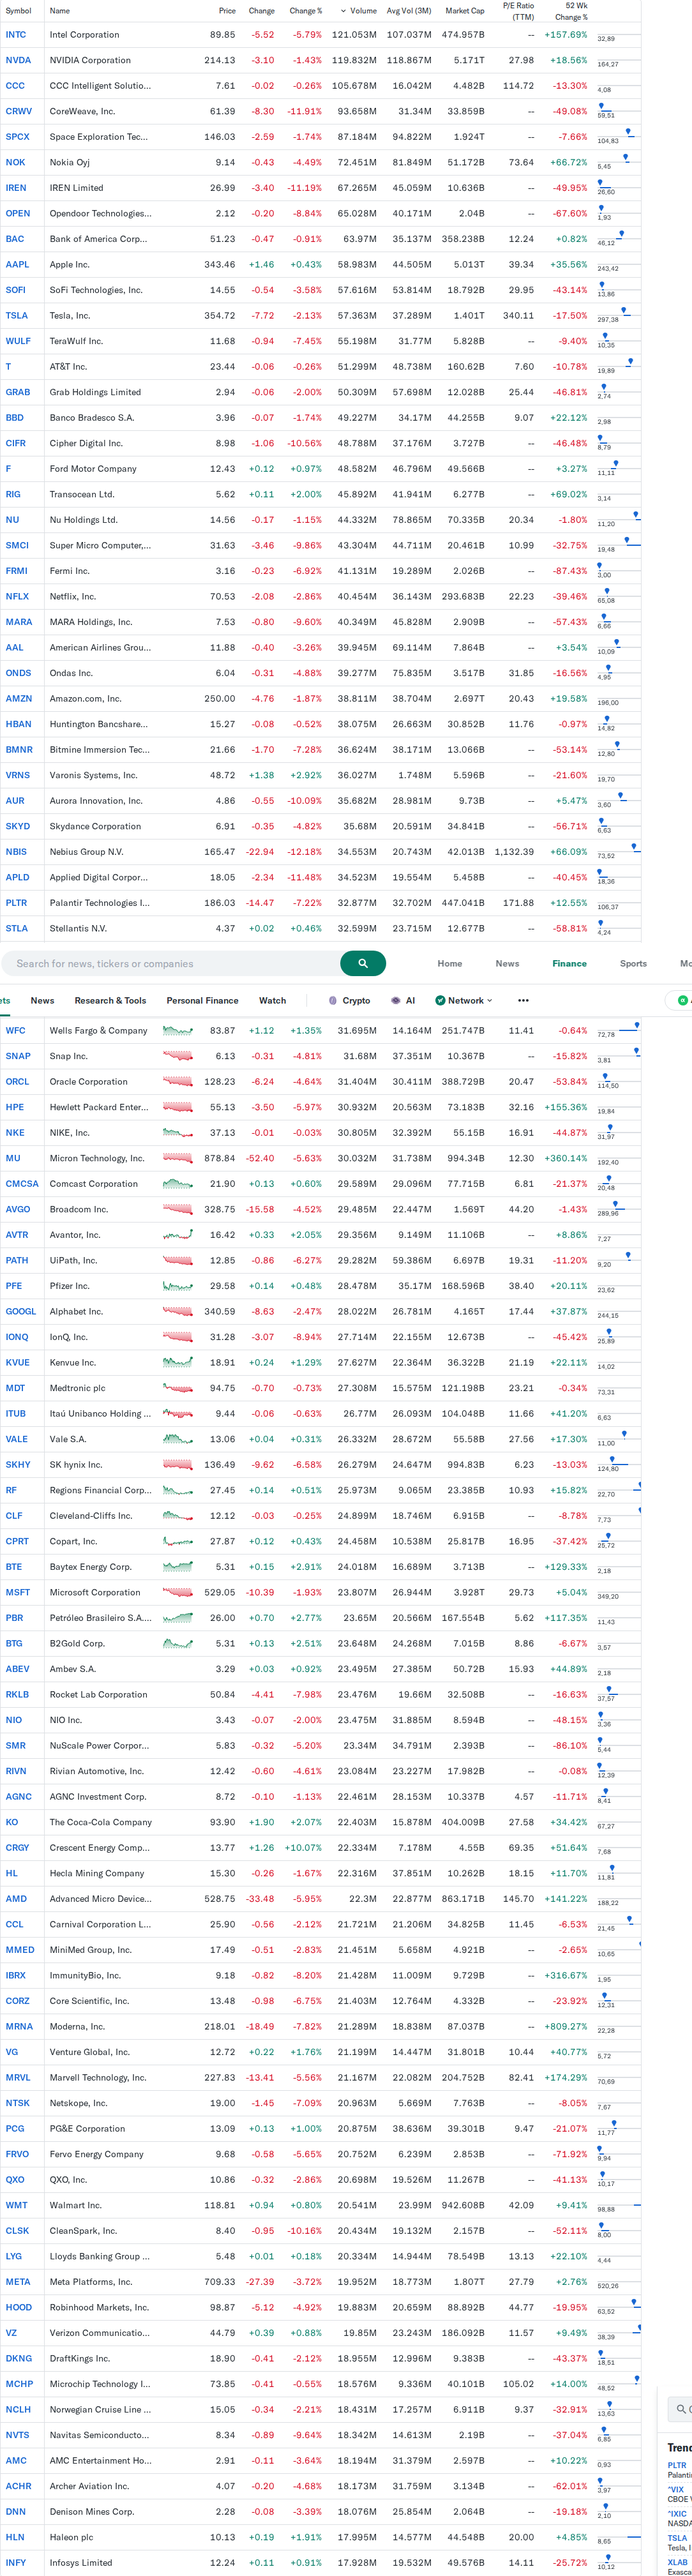
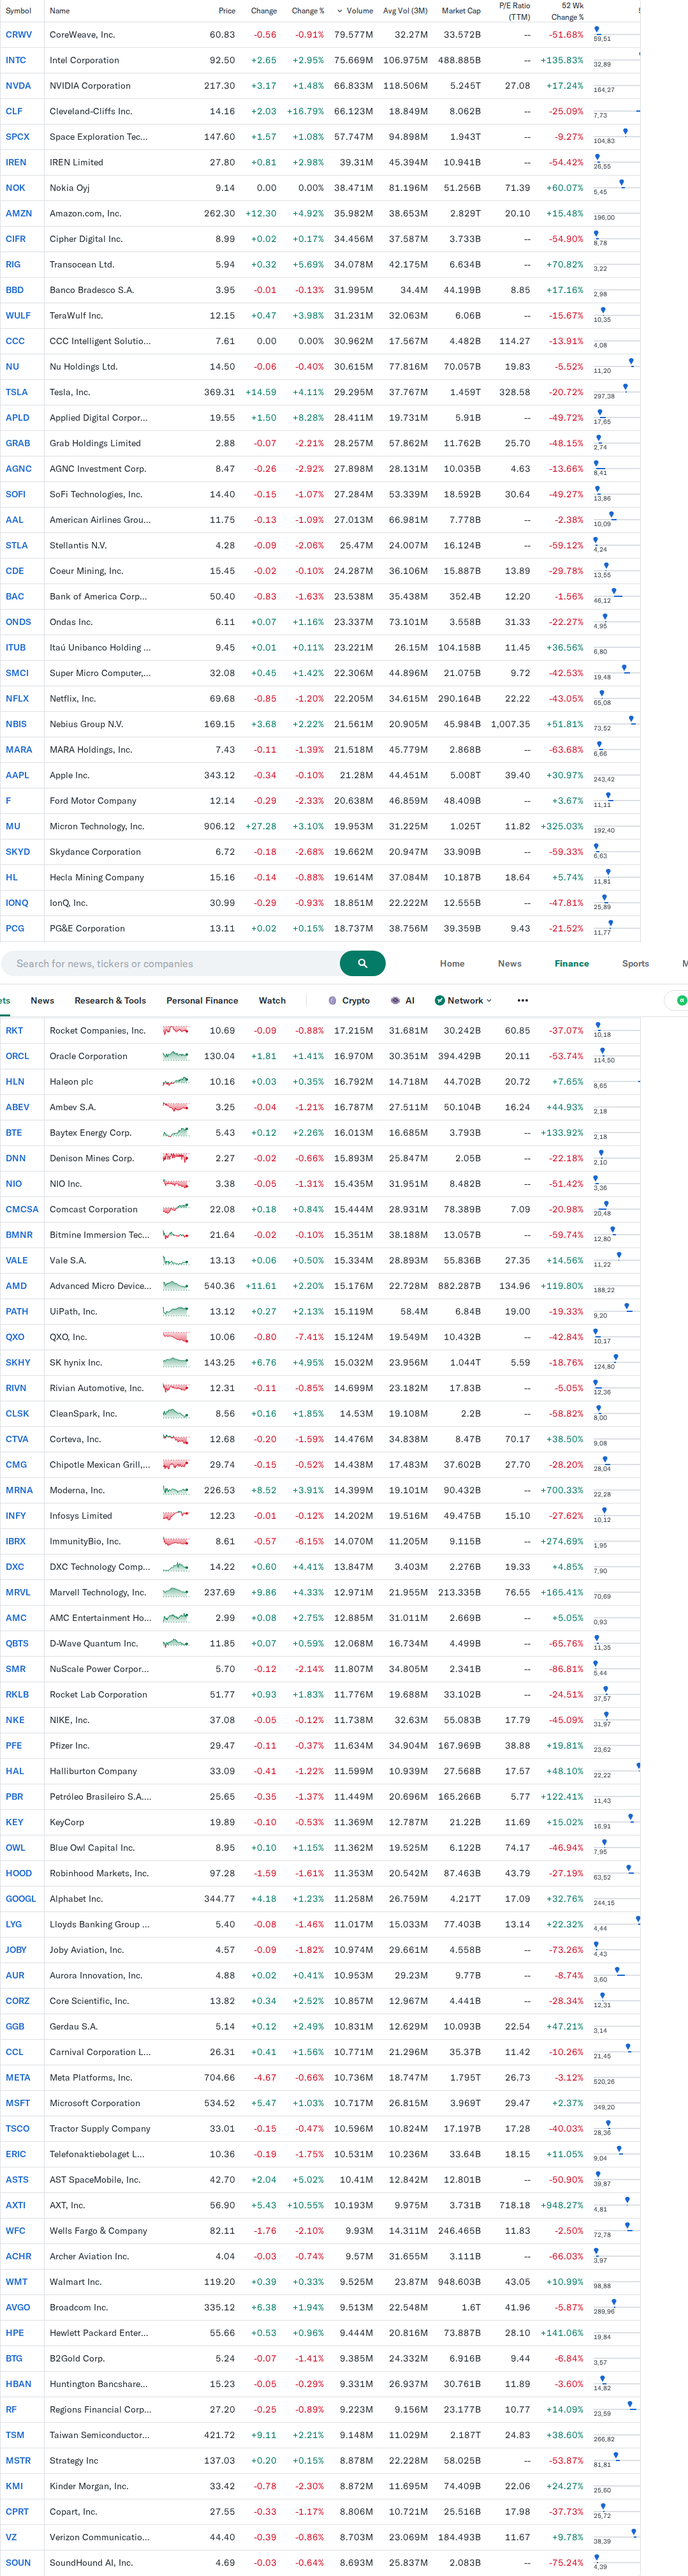
Screenshot bolsa [skip ci]

diff --git a/bolsa_out/RELATORIO.md b/bolsa_out/RELATORIO.md
@@ -1,13 +1,17 @@
-📈 Maiores Altas da Bolsa - 16/10/2026 20:13
+📈 Maiores Altas da Bolsa - 19/10/2026 15:58
 Fonte: Investing.com (Brasil)
 
 🌍 Yahoo (mundial) top altas
 | Símbolo | Nome | Preço | Var% |
 |---------|------|-------|------|
-| AAPL | Apple Inc. | 343.46 | +0.43% |
-| F | Ford Motor Company | 12.43 | +0.97% |
-| RIG | Transocean Ltd. | 5.62 | +2.00% |
-| VRNS | Varonis Systems, Inc. | 48.72 | +2.92% |
+| INTC | Intel Corporation | 92.50 | +2.95% |
+| NVDA | NVIDIA Corporation | 217.30 | +1.48% |
+| CLF | Cleveland-Cliffs Inc. | 14.16 | +16.79% |
+| SPCX | Space Exploration Technologies Corp. | 147.60 | +1.08% |
+| IREN | IREN Limited | 27.80 | +2.98% |
+| AMZN | Amazon.com, Inc. | 262.30 | +4.92% |
+| CIFR | Cipher Digital Inc. | 8.99 | +0.17% |
+| RIG | Transocean Ltd. | 5.94 | +5.69% |
 
 ---
 Gerado automaticamente. Valores podem ter atraso.
